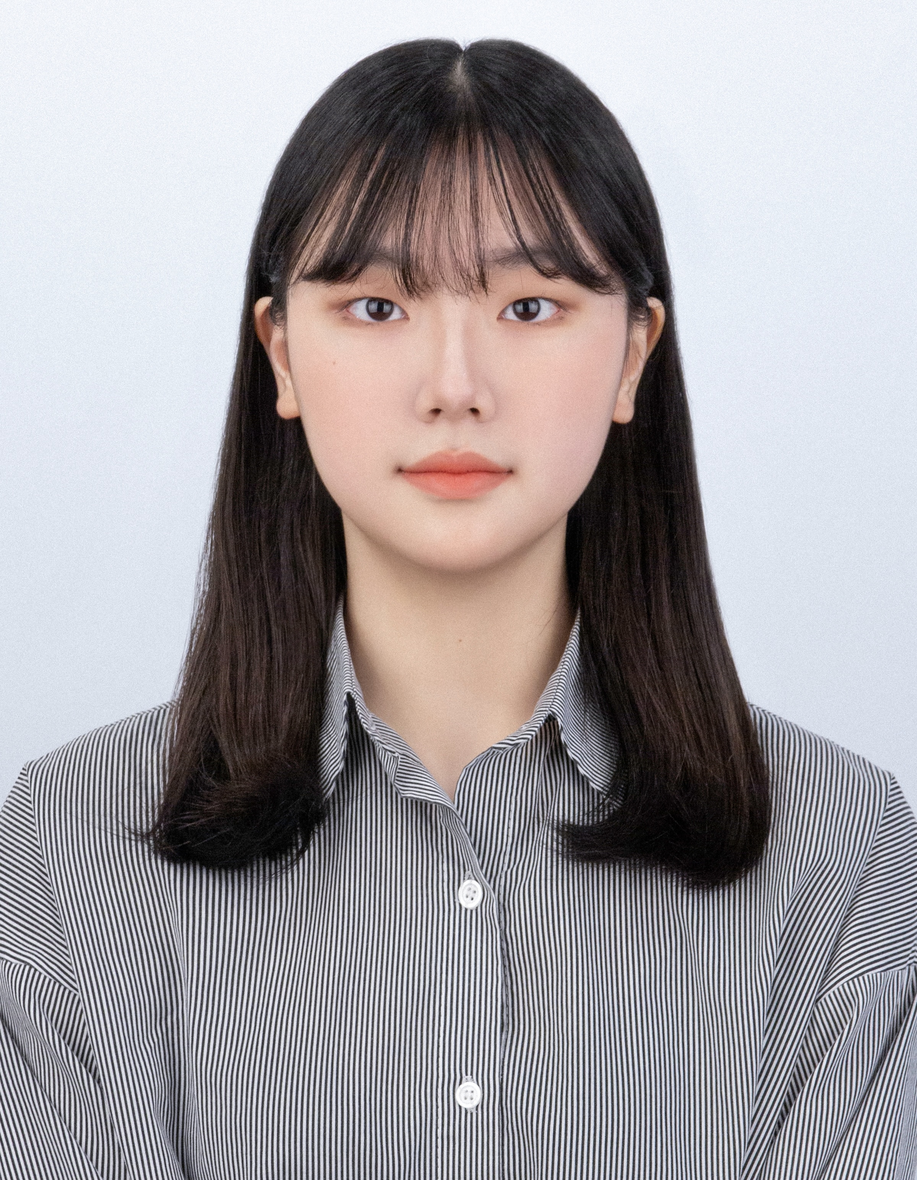
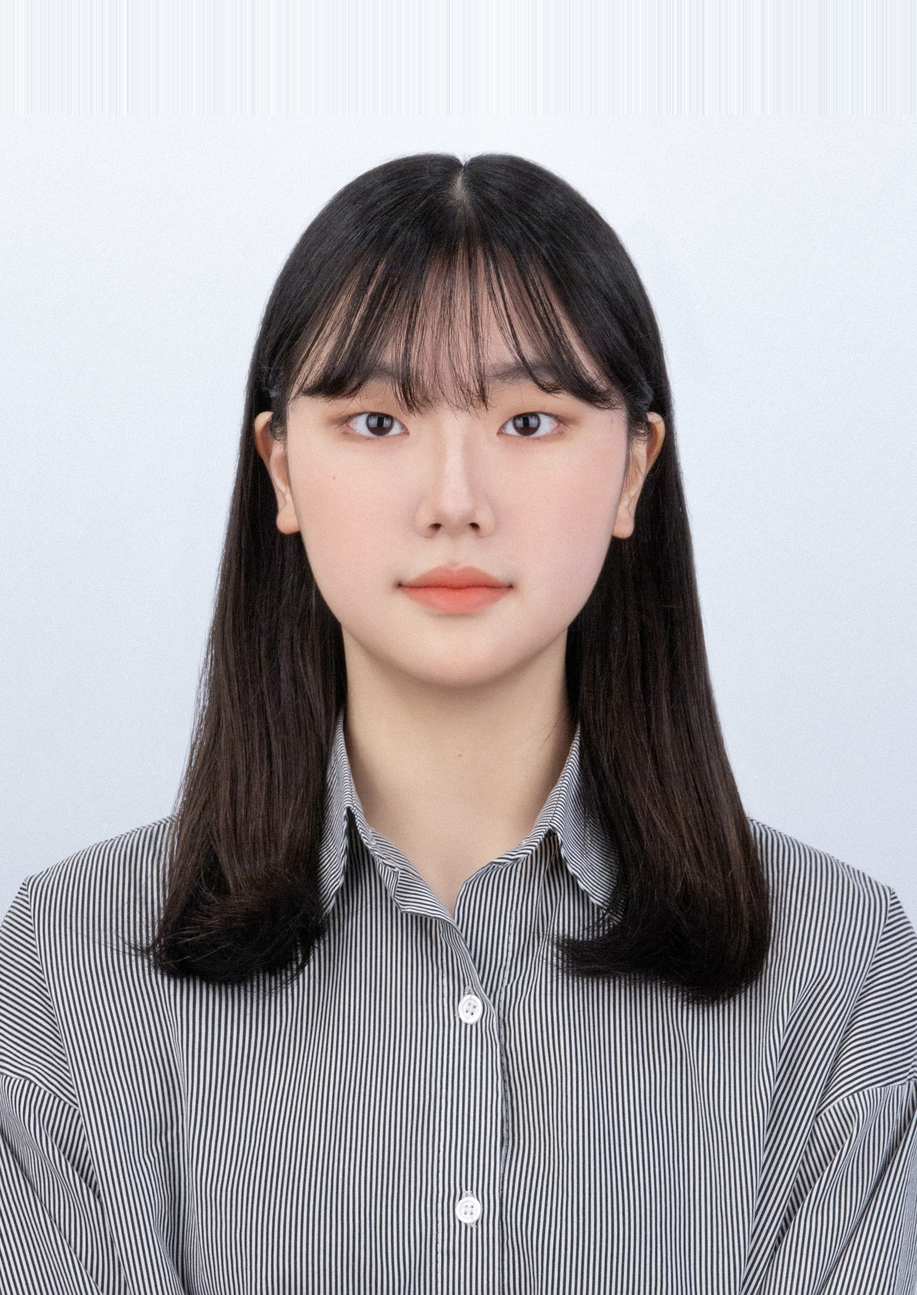
style(people): pad Seoyoung Koh photo top and set 0.95 zoom for Choi and Moon

diff --git a/assets/people/Jooyoung Moon.md b/assets/people/Jooyoung Moon.md
@@ -14,7 +14,7 @@
 ## Photo
 <!-- 본인 파일명을 입력하세요. 사진은 assets/people/photos/ 디렉토리에 저장해주세요. -->
 문주영.jpg
-zoom: 0.9
+zoom: 0.95
 
 ## Position
 <!-- 직위, 소속 학과(소속 팀), 대학교(회사 혹인 기관) 순서로 작성해주세요. 꼭 쉼표로 구분해주세요. -->

diff --git a/assets/people/Sun Mook Choi.md b/assets/people/Sun Mook Choi.md
@@ -14,7 +14,7 @@
 ## Photo
 <!-- 본인 파일명을 입력하세요. 사진은 assets/people/photos/ 디렉토리에 저장해주세요. -->
 최선묵.jpg
-zoom: 0.9
+zoom: 0.95
 
 ## Position
 <!-- 직위, 소속 학과(소속 팀), 대학교(회사 혹인 기관) 순서로 작성해주세요. 꼭 쉼표로 구분해주세요. -->
